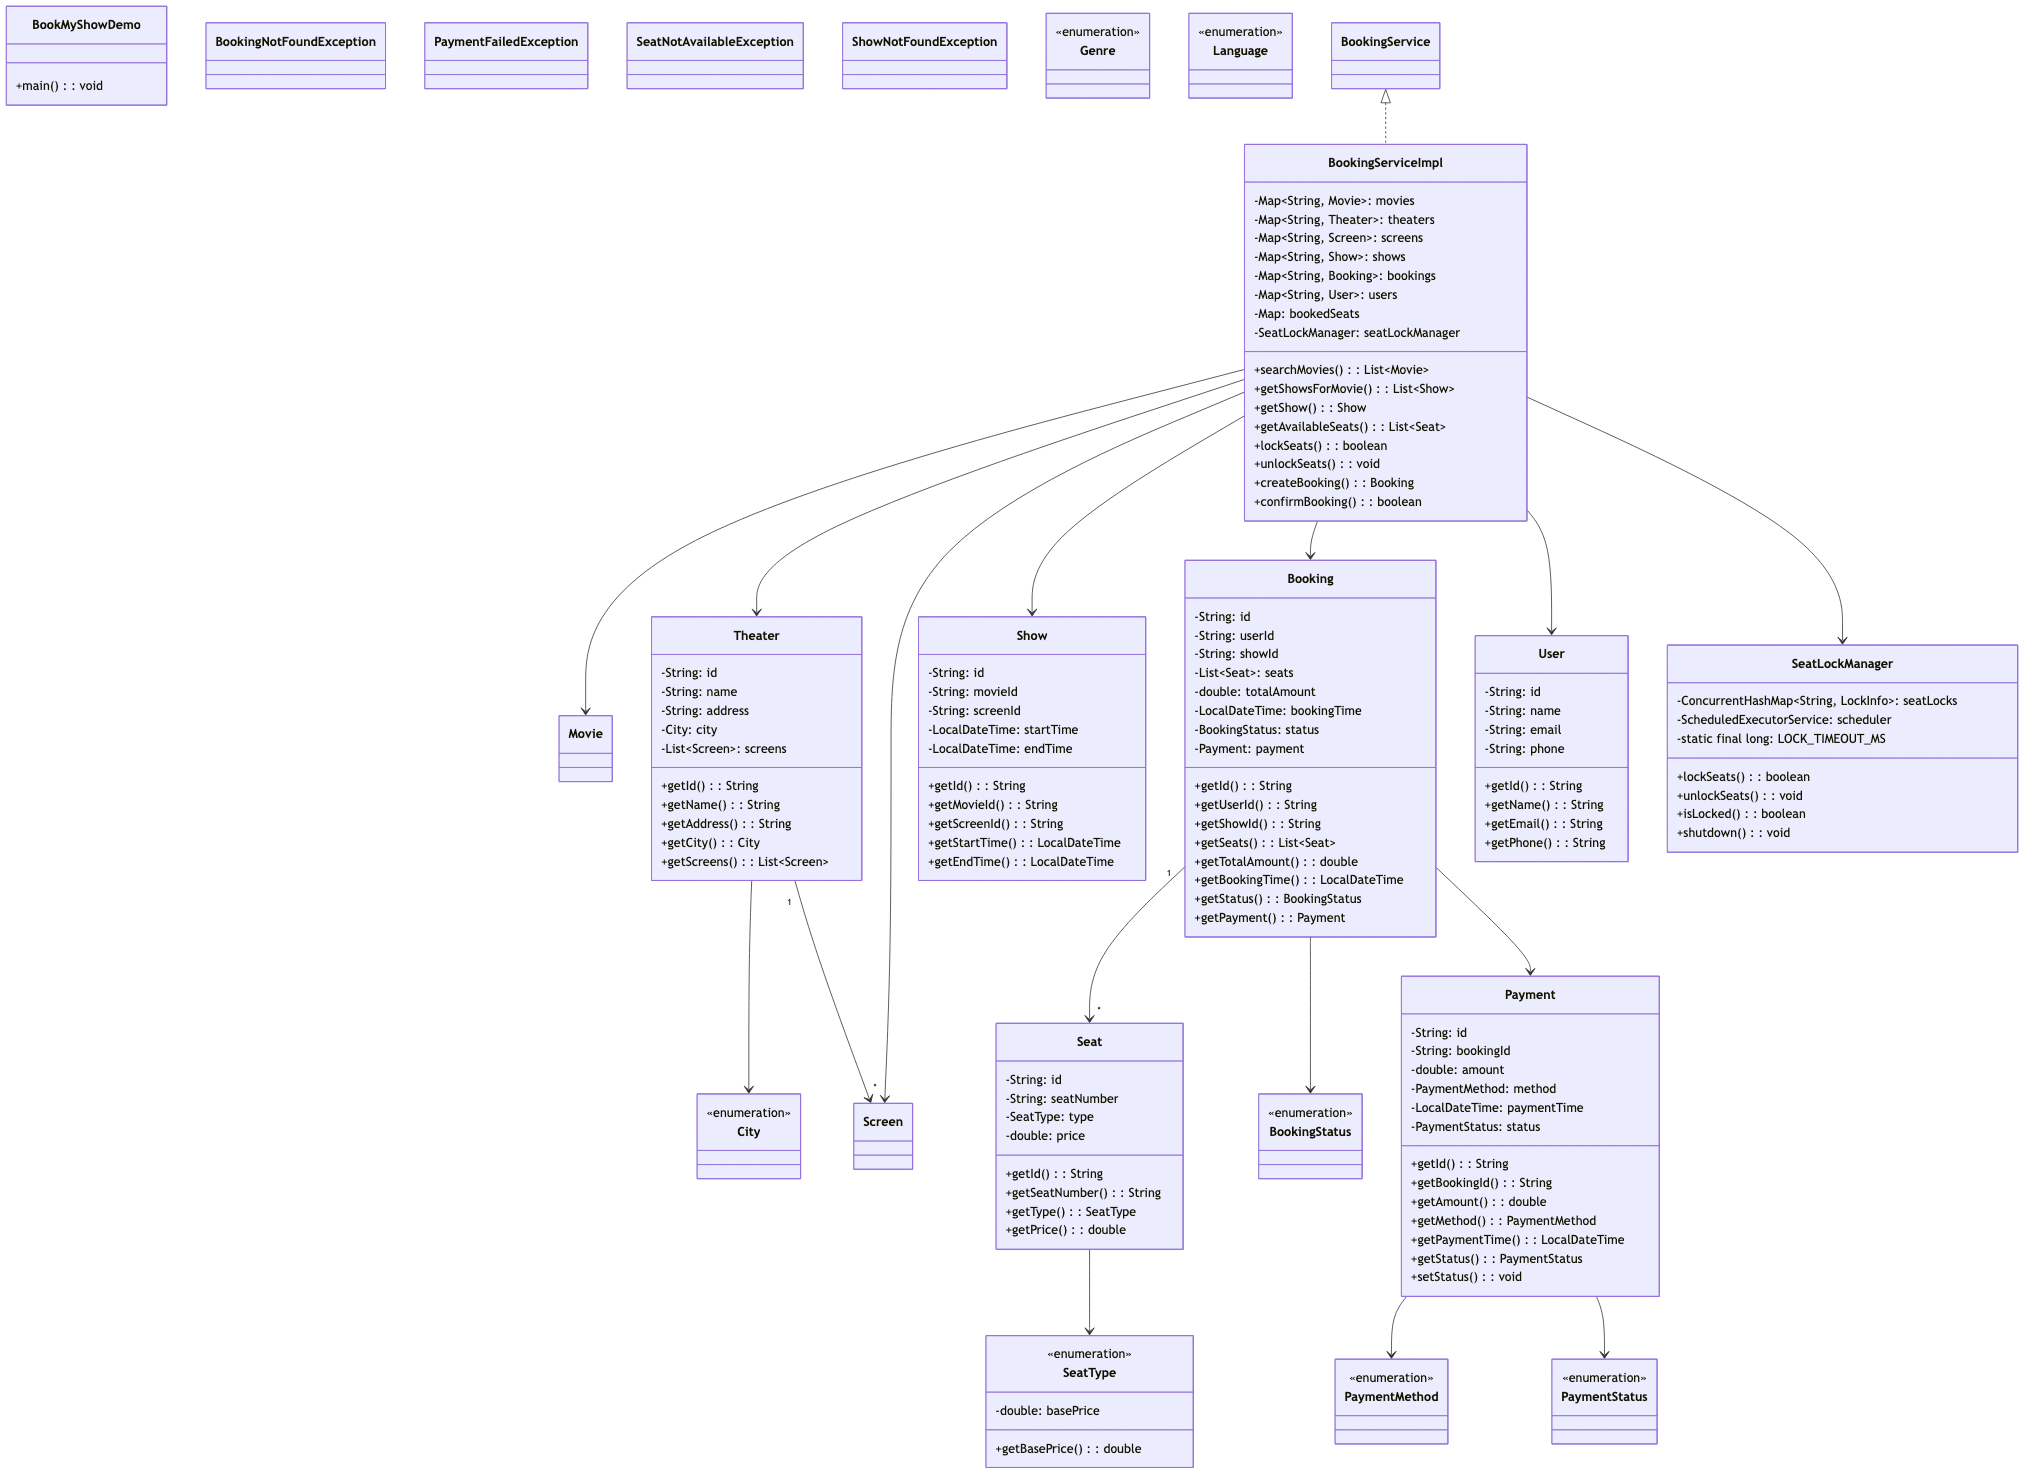
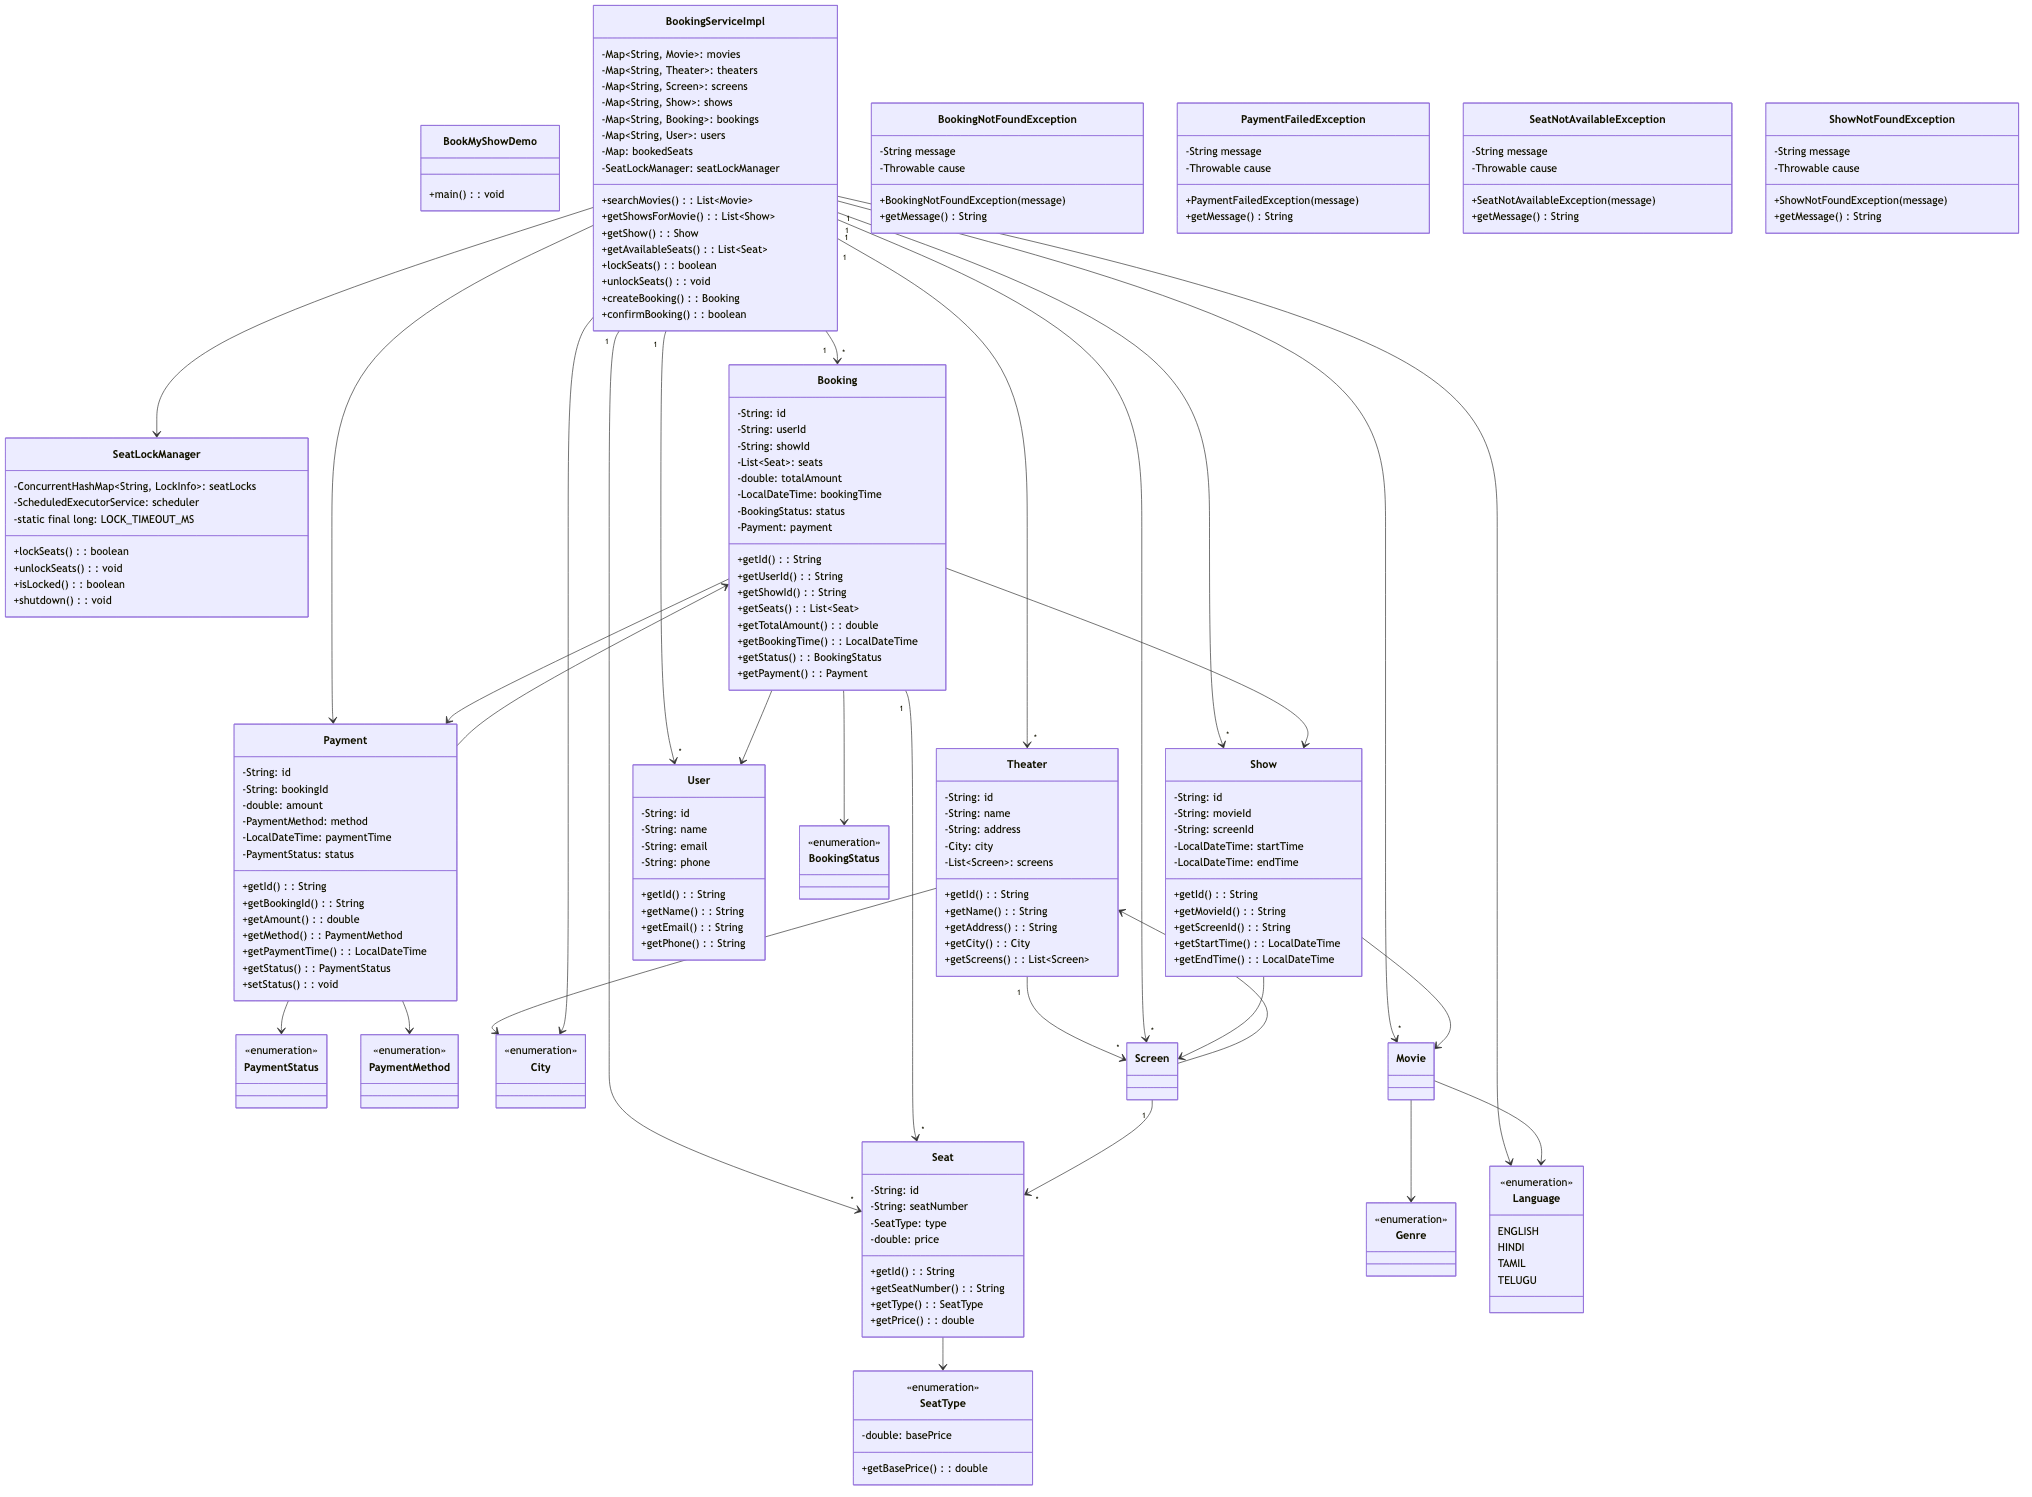
fix: add Language enum values to BookMyShow diagram

diff --git a/docs/problems/bookmyshow/README.md b/docs/problems/bookmyshow/README.md
@@ -301,6 +301,12 @@ classDiagram
     class Language {
         <<enumeration>>
 
+        ENGLISH
+        HINDI
+        TAMIL
+        TELUGU
+    }
+
     Theater --> City
     Theater "1" --> "*" Screen
     BookingServiceImpl "1" --> "*" Movie
